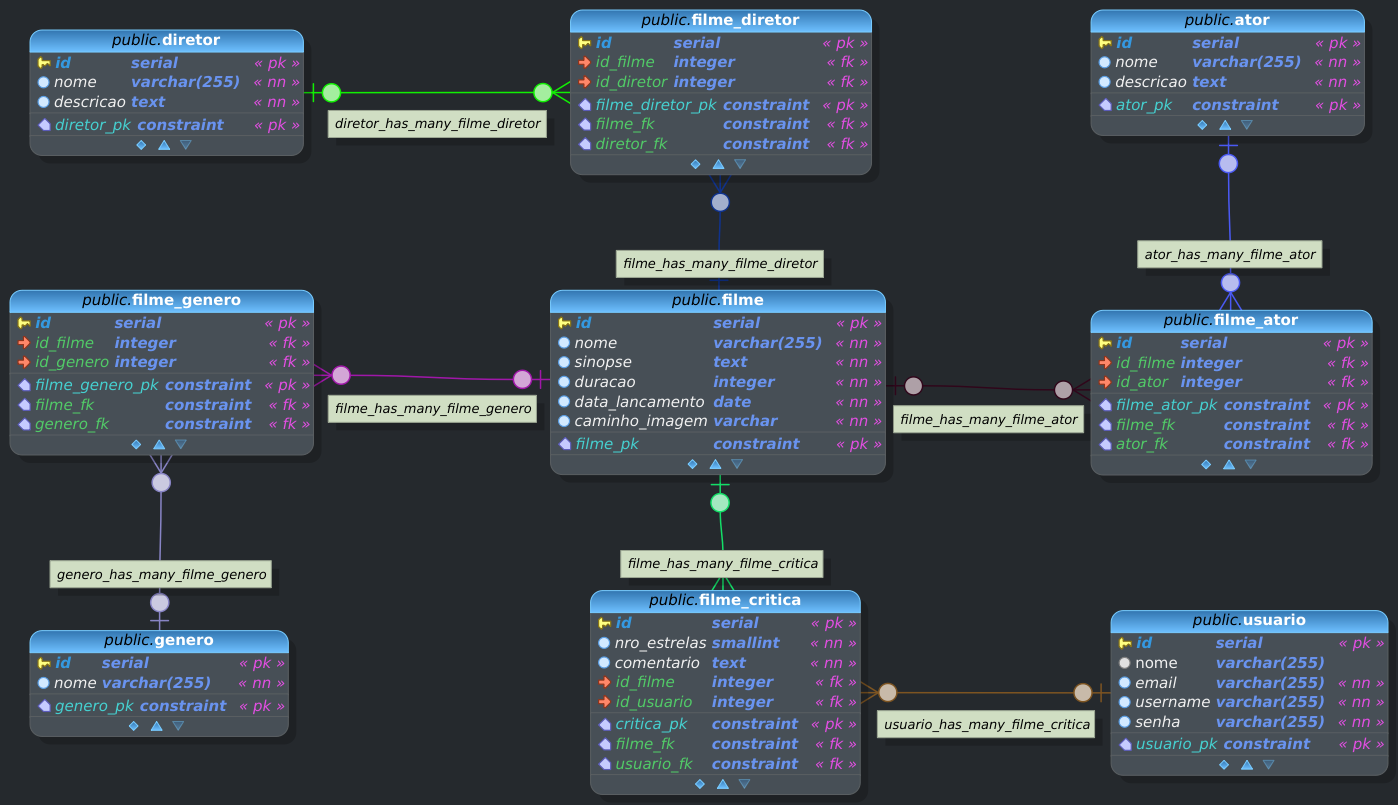
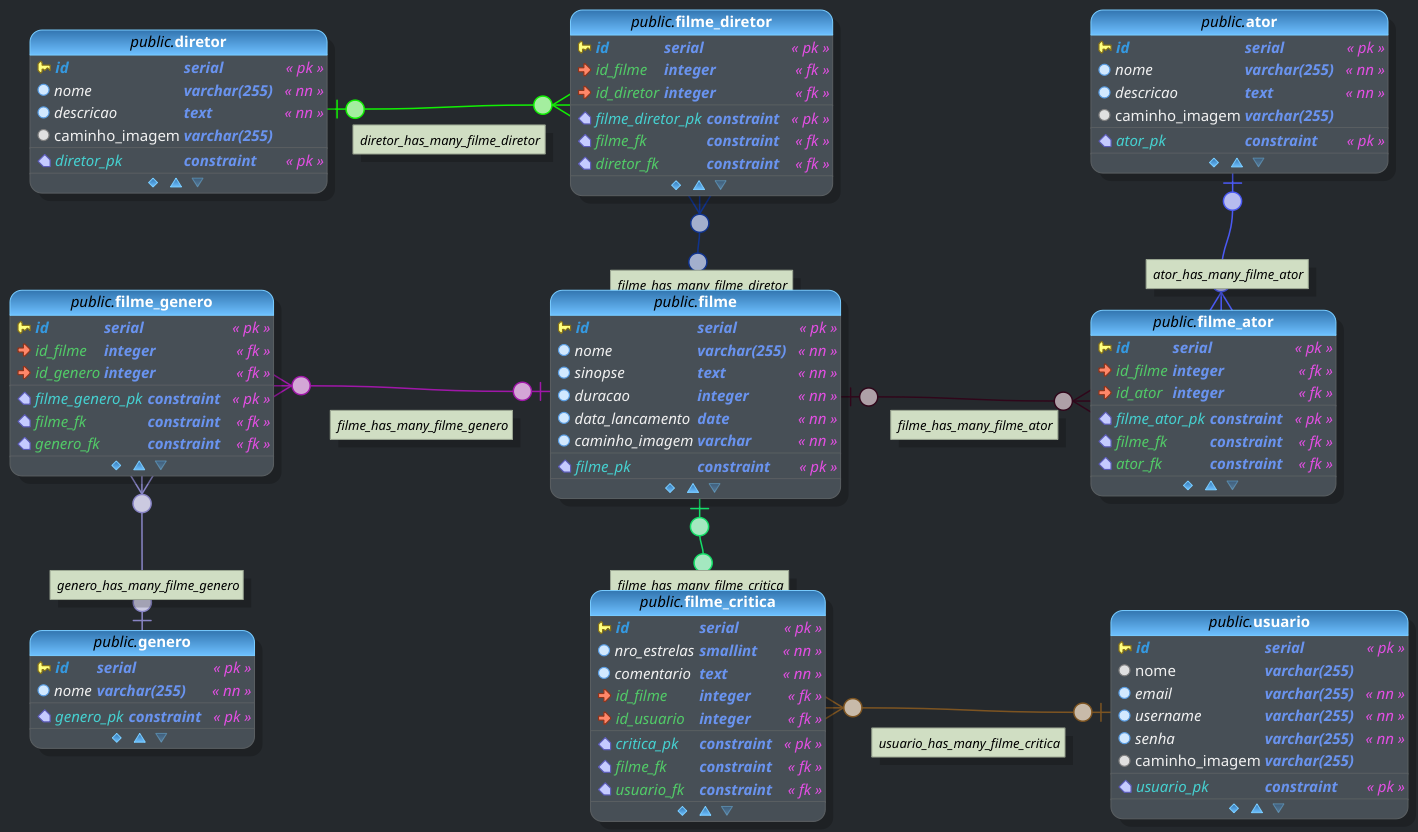
fix: change api routes to plural feat: add versioning

Changed region(s): [[0.0, 0.0, 1.0, 0.9938], [0.0, 0.6522, 0.2153, 0.9317]]

diff --git a/letterboxd-back/src/modules/movie_director/movie_director.controller.ts b/letterboxd-back/src/modules/movie_director/movie_director.controller.ts
@@ -14,28 +14,28 @@ import { UpdateMovieDirectorDto } from './dto/update-movie_director.dto';
 import { MovieDirector } from './entities/movie_director.entity';
 import { MovieDirectorService } from './movie_director.service';
 
-@Controller('api')
+@Controller({ version: '1', path: 'movie-directors' })
 export class MovieDirectorController {
   constructor(private readonly movieDirectorService: MovieDirectorService) {}
 
-  @Post('movie-director')
+  @Post()
   async create(
     @Body() createMovieDirectorDto: CreateMovieDirectorDto,
   ): Promise<MovieDirector> {
     return this.movieDirectorService.create(createMovieDirectorDto);
   }
 
-  @Get('movie-directors')
+  @Get()
   async findAll(): Promise<MovieDirector[]> {
     return this.movieDirectorService.findAll();
   }
 
-  @Get('movie-director/:id')
+  @Get(':id')
   async findOne(@Param('id', ParseIntPipe) id: number): Promise<MovieDirector> {
     return this.movieDirectorService.findOne(+id);
   }
 
-  @Patch('movie-director/:id')
+  @Patch(':id')
   async update(
     @Param('id', ParseIntPipe) id: number,
     @Body() updateMovieGenreDto: UpdateMovieDirectorDto,
@@ -43,7 +43,7 @@ export class MovieDirectorController {
     return this.movieDirectorService.update(+id, updateMovieGenreDto);
   }
 
-  @Delete('movie-director/:id')
+  @Delete(':id')
   async remove(@Param('id', ParseIntPipe) id: number): Promise<DeleteResult> {
     return this.movieDirectorService.remove(+id);
   }

diff --git a/letterboxd-back/src/modules/movie_actor/movie_actor.controller.ts b/letterboxd-back/src/modules/movie_actor/movie_actor.controller.ts
@@ -14,28 +14,28 @@ import { UpdateMovieActorDto } from './dto/update-movie_actor.dto';
 import { MovieActor } from './entities/movie_actor.entity';
 import { MovieActorService } from './movie_actor.service';
 
-@Controller('api')
+@Controller({ version: '1', path: 'movie-actors' })
 export class MovieActorController {
   constructor(private readonly movieActorService: MovieActorService) {}
 
-  @Post('movie-actor')
+  @Post()
   async create(
     @Body() createMovieActorDto: CreateMovieActorDto,
   ): Promise<MovieActor> {
     return this.movieActorService.create(createMovieActorDto);
   }
 
-  @Get('movie-actors')
+  @Get()
   async findAll(): Promise<MovieActor[]> {
     return this.movieActorService.findAll();
   }
 
-  @Get('movie-actor/:id')
+  @Get(':id')
   async findOne(@Param('id', ParseIntPipe) id: number): Promise<MovieActor> {
     return this.movieActorService.findOne(+id);
   }
 
-  @Patch('movie-actor/:id')
+  @Patch(':id')
   async update(
     @Param('id', ParseIntPipe) id: number,
     @Body() updateMovieActorDto: UpdateMovieActorDto,
@@ -43,7 +43,7 @@ export class MovieActorController {
     return this.movieActorService.update(+id, updateMovieActorDto);
   }
 
-  @Delete('movie-actor/:id')
+  @Delete(':id')
   async remove(@Param('id', ParseIntPipe) id: number): Promise<DeleteResult> {
     return this.movieActorService.remove(+id);
   }

diff --git a/letterboxd-back/src/modules/movie_genre/movie_genre.controller.ts b/letterboxd-back/src/modules/movie_genre/movie_genre.controller.ts
@@ -14,28 +14,28 @@ import { UpdateMovieGenreDto } from './dto/update-movie_genre.dto';
 import { MovieGenre } from './entities/movie_genre.entity';
 import { MovieGenreService } from './movie_genre.service';
 
-@Controller('api')
+@Controller({ version: '1', path: 'movie-genres' })
 export class MovieGenreController {
   constructor(private readonly movieGenreService: MovieGenreService) {}
 
-  @Post('movie-genre')
+  @Post()
   async create(
     @Body() createMovieGenreDto: CreateMovieGenreDto,
   ): Promise<MovieGenre> {
     return this.movieGenreService.create(createMovieGenreDto);
   }
 
-  @Get('movie-genres')
+  @Get()
   async findAll(): Promise<MovieGenre[]> {
     return this.movieGenreService.findAll();
   }
 
-  @Get('movie-genre/:id')
+  @Get(':id')
   async findOne(@Param('id', ParseIntPipe) id: number): Promise<MovieGenre> {
     return this.movieGenreService.findOne(+id);
   }
 
-  @Patch('movie-genre/:id')
+  @Patch(':id')
   async update(
     @Param('id', ParseIntPipe) id: number,
     @Body() updateMovieGenreDto: UpdateMovieGenreDto,
@@ -43,7 +43,7 @@ export class MovieGenreController {
     return this.movieGenreService.update(+id, updateMovieGenreDto);
   }
 
-  @Delete('movie-genre/:id')
+  @Delete(':id')
   async remove(@Param('id', ParseIntPipe) id: number): Promise<DeleteResult> {
     return this.movieGenreService.remove(+id);
   }

diff --git a/letterboxd-back/src/modules/director/director.controller.ts b/letterboxd-back/src/modules/director/director.controller.ts
@@ -14,28 +14,28 @@ import { CreateDirectorDto } from './dto/create-director.dto';
 import { UpdateDirectorDto } from './dto/update-director.dto';
 import { Director } from './entities/director.entity';
 
-@Controller('api')
+@Controller({ version: '1', path: 'directors' })
 export class DirectorController {
   constructor(private readonly directorService: DirectorService) {}
 
-  @Post('director')
+  @Post()
   async create(
     @Body() createDirectorDto: CreateDirectorDto,
   ): Promise<Director> {
     return this.directorService.create(createDirectorDto);
   }
 
-  @Get('directors')
+  @Get()
   async findAll(): Promise<Director[]> {
     return this.directorService.findAll();
   }
 
-  @Get('director/:id')
+  @Get(':id')
   async findOne(@Param('id', ParseIntPipe) id: number): Promise<Director> {
     return this.directorService.findOne(+id);
   }
 
-  @Patch('director/:id')
+  @Patch(':id')
   async update(
     @Param('id', ParseIntPipe) id: number,
     @Body() updateDirectorDto: UpdateDirectorDto,
@@ -43,7 +43,7 @@ export class DirectorController {
     return this.directorService.update(+id, updateDirectorDto);
   }
 
-  @Delete('director/:id')
+  @Delete(':id')
   async remove(@Param('id', ParseIntPipe) id: number): Promise<DeleteResult> {
     return this.directorService.remove(+id);
   }

diff --git a/letterboxd-back/src/modules/actor/actor.controller.ts b/letterboxd-back/src/modules/actor/actor.controller.ts
@@ -14,26 +14,26 @@ import { CreateActorDto } from './dto/create-actor.dto';
 import { UpdateActorDto } from './dto/update-actor.dto';
 import { Actor } from './entities/actor.entity';
 
-@Controller('api')
+@Controller({ version: '1', path: 'actors' })
 export class ActorController {
   constructor(private readonly actorService: ActorService) {}
 
-  @Post('actor')
+  @Post()
   async create(@Body() createActorDto: CreateActorDto): Promise<Actor> {
     return this.actorService.create(createActorDto);
   }
 
-  @Get('actors')
+  @Get()
   async findAll(): Promise<Actor[]> {
     return this.actorService.findAll();
   }
 
-  @Get('actor/:id')
+  @Get(':id')
   async findOne(@Param('id', ParseIntPipe) id: number): Promise<Actor> {
     return this.actorService.findOne(+id);
   }
 
-  @Patch('actor/:id')
+  @Patch(':id')
   async update(
     @Param('id', ParseIntPipe) id: number,
     @Body() updateActorDto: UpdateActorDto,
@@ -41,7 +41,7 @@ export class ActorController {
     return this.actorService.update(+id, updateActorDto);
   }
 
-  @Delete('actor/:id')
+  @Delete(':id')
   async remove(@Param('id', ParseIntPipe) id: number): Promise<DeleteResult> {
     return this.actorService.remove(+id);
   }

diff --git a/letterboxd-back/src/modules/genre/genre.controller.ts b/letterboxd-back/src/modules/genre/genre.controller.ts
@@ -14,26 +14,26 @@ import { UpdateGenreDto } from './dto/update-genre.dto';
 import { Genre } from './entities/genre.entity';
 import { GenreService } from './genre.service';
 
-@Controller('api')
+@Controller({ version: '1', path: 'genres' })
 export class GenreController {
   constructor(private readonly genreService: GenreService) {}
 
-  @Post('genre')
+  @Post()
   async create(@Body() createGenreDto: CreateGenreDto): Promise<Genre> {
     return this.genreService.create(createGenreDto);
   }
 
-  @Get('genres')
+  @Get()
   async findAll(): Promise<Genre[]> {
     return this.genreService.findAll();
   }
 
-  @Get('genre/:id')
+  @Get(':id')
   async findOne(@Param('id', ParseIntPipe) id: number): Promise<Genre> {
     return this.genreService.findOne(+id);
   }
 
-  @Patch('genre/:id')
+  @Patch(':id')
   async update(
     @Param('id', ParseIntPipe) id: number,
     @Body() updateGenreDto: UpdateGenreDto,
@@ -41,7 +41,7 @@ export class GenreController {
     return this.genreService.update(+id, updateGenreDto);
   }
 
-  @Delete('genre/:id')
+  @Delete(':id')
   async remove(@Param('id', ParseIntPipe) id: number): Promise<DeleteResult> {
     return this.genreService.remove(+id);
   }

diff --git a/letterboxd-back/src/modules/movie/movie.controller.ts b/letterboxd-back/src/modules/movie/movie.controller.ts
@@ -14,26 +14,26 @@ import { UpdateMovieDto } from './dto/update-movie.dto';
 import { Movie } from './entities/movie.entity';
 import { MovieService } from './movie.service';
 
-@Controller('api')
+@Controller({ version: '1', path: 'movies' })
 export class MovieController {
   constructor(private readonly movieService: MovieService) {}
 
-  @Post('movie')
+  @Post()
   async create(@Body() createMovieDto: CreateMovieDto): Promise<Movie> {
     return this.movieService.create(createMovieDto);
   }
 
-  @Get('movies')
+  @Get()
   async findAll(): Promise<Movie[]> {
     return this.movieService.findAll();
   }
 
-  @Get('movie/:id')
+  @Get(':id')
   async findOne(@Param('id', ParseIntPipe) id: number): Promise<Movie> {
     return this.movieService.findOne(+id);
   }
 
-  @Patch('movie/:id')
+  @Patch(':id')
   async update(
     @Param('id', ParseIntPipe) id: number,
     @Body() updateMovieDto: UpdateMovieDto,
@@ -41,7 +41,7 @@ export class MovieController {
     return this.movieService.update(+id, updateMovieDto);
   }
 
-  @Delete('movie/:id')
+  @Delete(':id')
   async remove(@Param('id', ParseIntPipe) id: number): Promise<DeleteResult> {
     return this.movieService.remove(+id);
   }

diff --git a/letterboxd-back/src/main.ts b/letterboxd-back/src/main.ts
@@ -1,12 +1,18 @@
 // Arquivo principal da aplicação
-import { ValidationPipe } from '@nestjs/common';
+import { ValidationPipe, VersioningType } from '@nestjs/common';
 import { NestFactory } from '@nestjs/core';
 import { AppModule } from './app.module';
 
 async function bootstrap() {
   const port = process.env.PORT || 3000; // Pega a porta do ambiente ou usa a porta 3000
   const app = await NestFactory.create(AppModule); // Cria a aplicação NestJS
+
   app.useGlobalPipes(new ValidationPipe({ transform: false })); // Adiciona o pipe de validação global
+  app.enableVersioning({
+    type: VersioningType.URI, // Define o tipo de versionamento
+  }); // Habilita o versionamento de rotas
+  app.setGlobalPrefix('api'); // Define o prefixo global das rotas
+
   await app.listen(port); // Inicia a aplicação na porta 3000
 }
 bootstrap();

diff --git a/letterboxd-back/src/modules/director/dto/create-director.dto.ts b/letterboxd-back/src/modules/director/dto/create-director.dto.ts
@@ -9,6 +9,10 @@ export class CreateDirectorDto {
   @IsNotEmpty({ message: 'Informe uma descrição.' })
   description: string;
 
+  @IsString({ message: 'Informe um caminho de imagem válido.' })
+  @IsNotEmpty({ message: 'Informe um caminho de imagem.' })
+  imagePath: string;
+
   @IsEmpty()
   createdAt?: Date;
 

diff --git a/letterboxd-back/src/modules/actor/dto/create-actor.dto.ts b/letterboxd-back/src/modules/actor/dto/create-actor.dto.ts
@@ -9,6 +9,10 @@ export class CreateActorDto {
   @IsNotEmpty({ message: 'Informe uma descrição.' })
   description: string;
 
+  @IsString({ message: 'Informe um caminho de imagem válido.' })
+  @IsNotEmpty({ message: 'Informe um caminho de imagem.' })
+  imagePath: string;
+
   @IsEmpty()
   createdAt?: Date;
 

diff --git a/letterboxd-back/src/modules/director/entities/director.entity.ts b/letterboxd-back/src/modules/director/entities/director.entity.ts
@@ -19,6 +19,9 @@ export class Director {
   @Column({ name: 'description', type: 'text' })
   description: string;
 
+  @Column({ name: 'image_path', type: 'varchar', length: 255 })
+  imagePath: string;
+
   @OneToMany(() => MovieDirector, (movieGenre) => movieGenre.director)
   movieDirectors: MovieDirector[];
 

diff --git a/letterboxd-back/src/modules/actor/entities/actor.entity.ts b/letterboxd-back/src/modules/actor/entities/actor.entity.ts
@@ -19,6 +19,9 @@ export class Actor {
   @Column({ name: 'description', type: 'text' })
   description: string;
 
+  @Column({ name: 'image_path', type: 'varchar', length: 255 })
+  imagePath: string;
+
   @OneToMany(() => MovieActor, (movieActor) => movieActor.actor)
   movieActors: MovieActor[];
 
